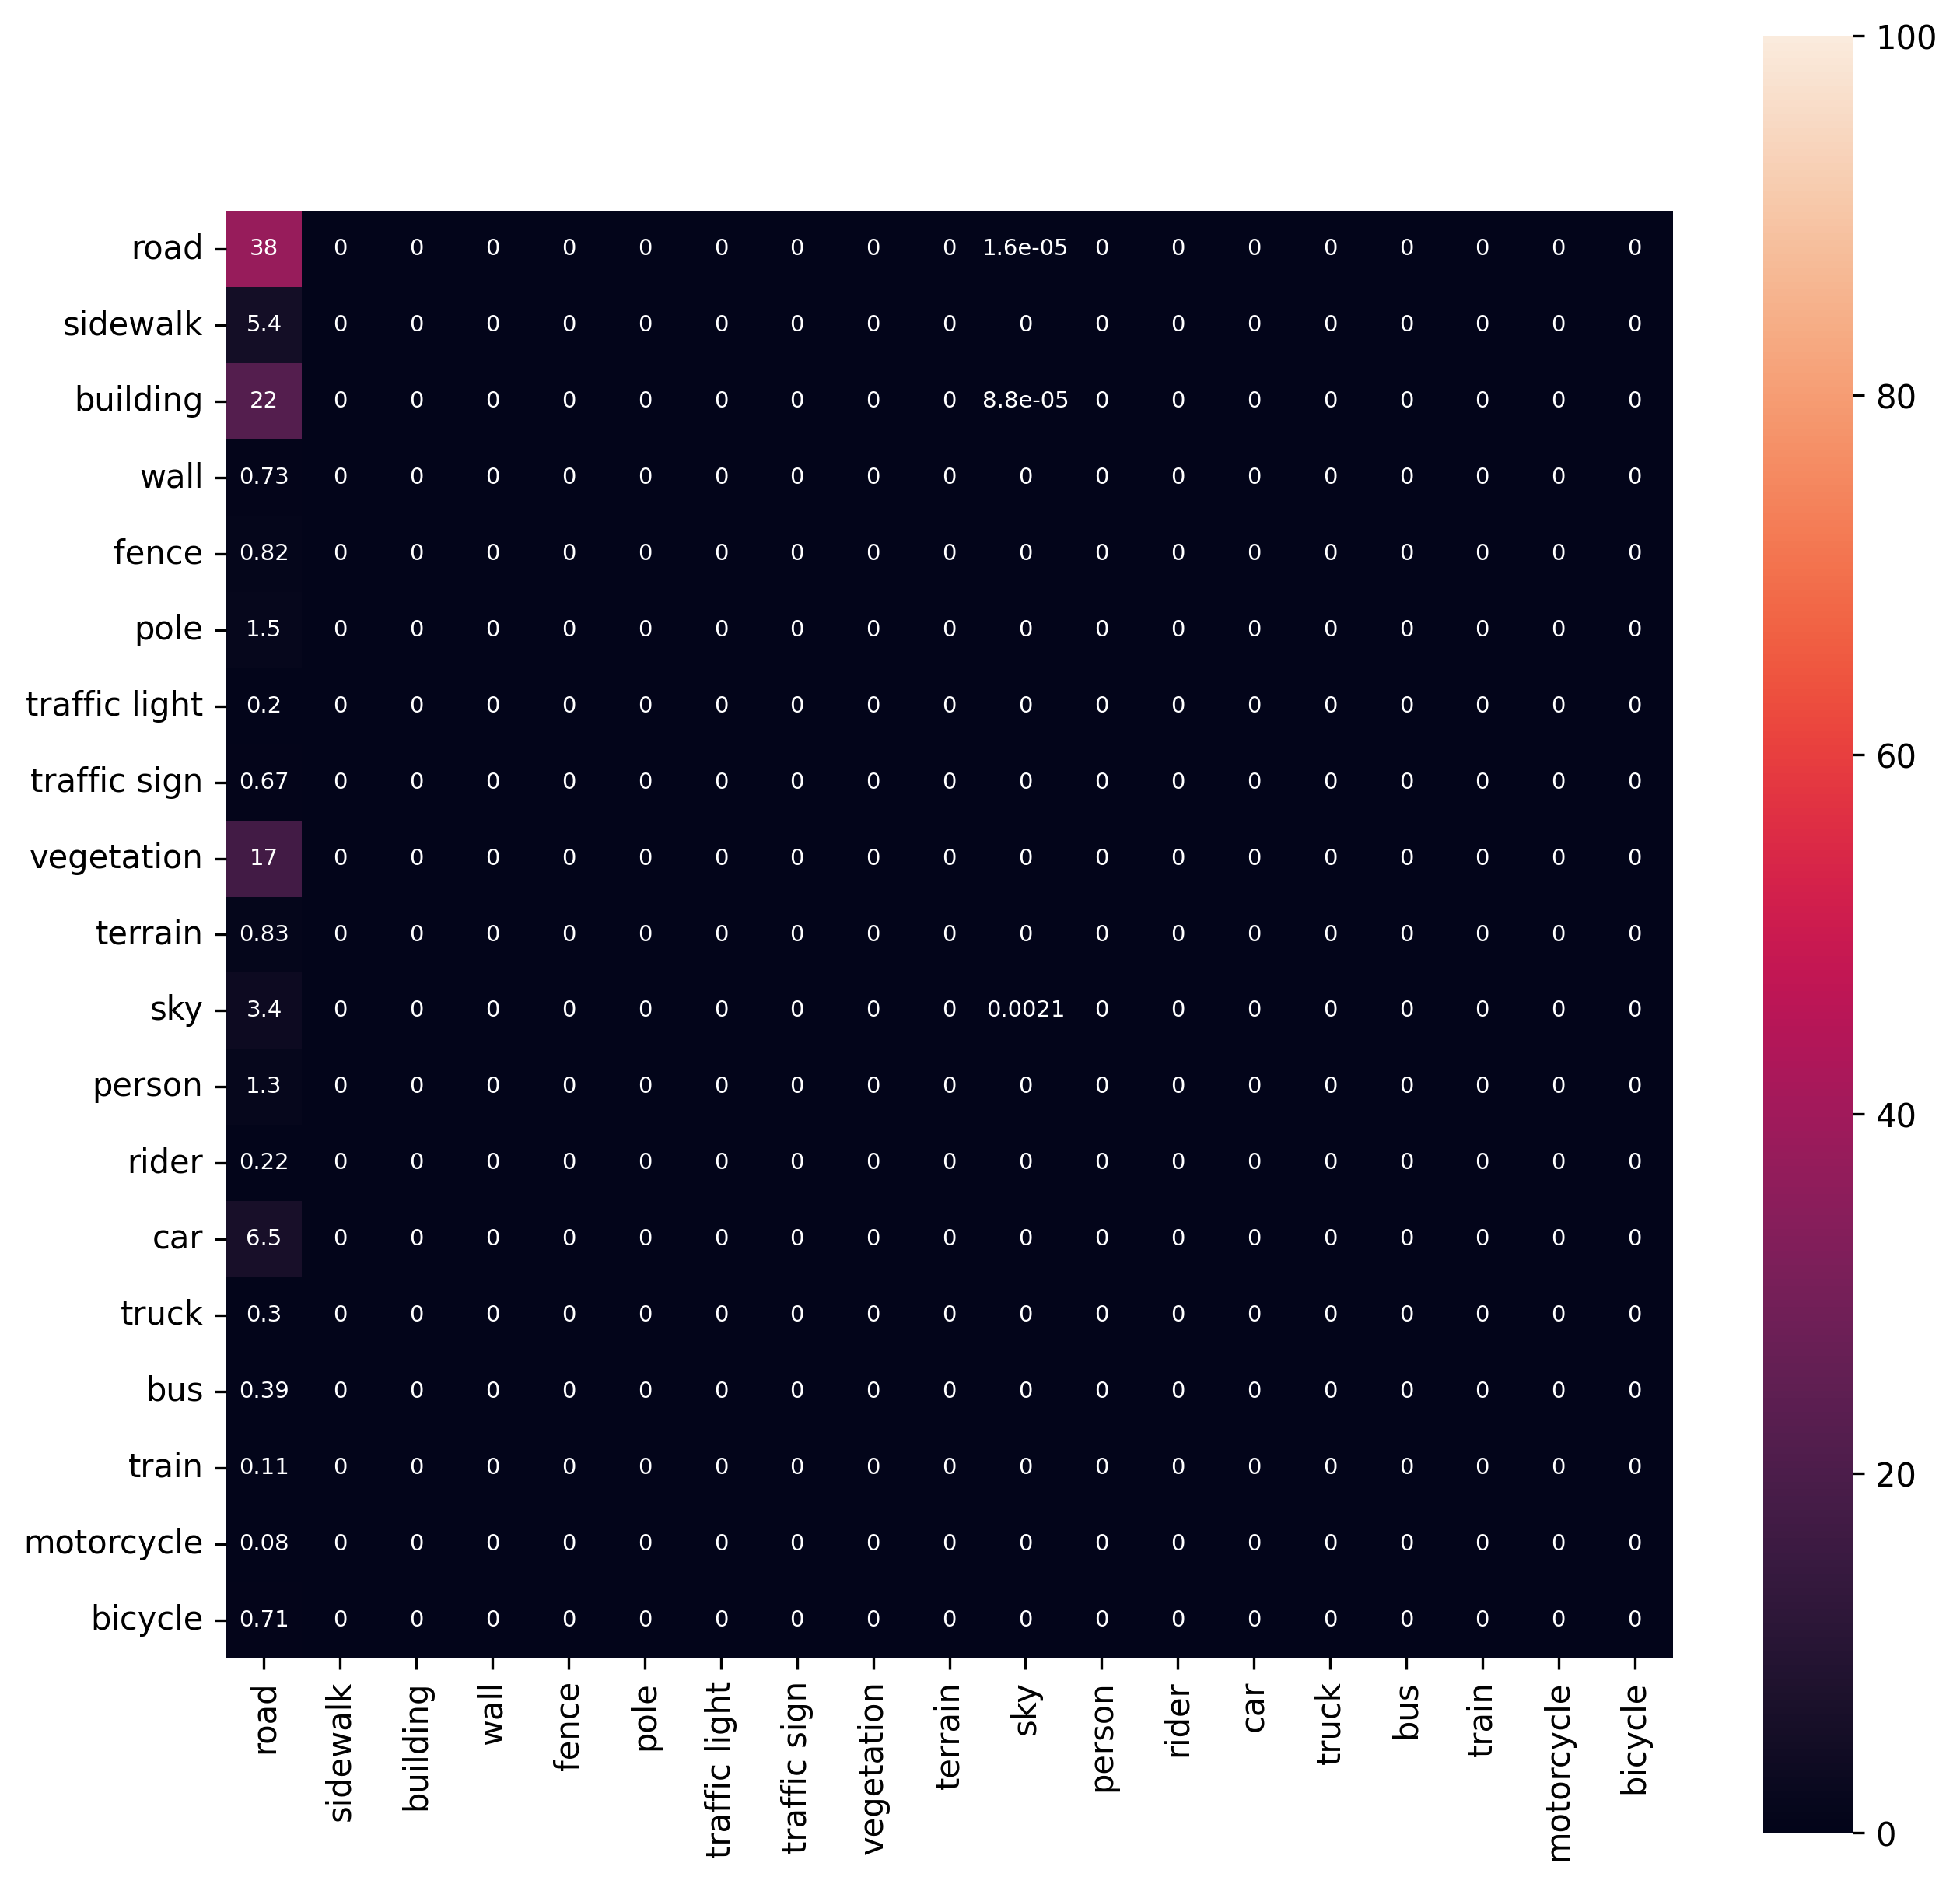
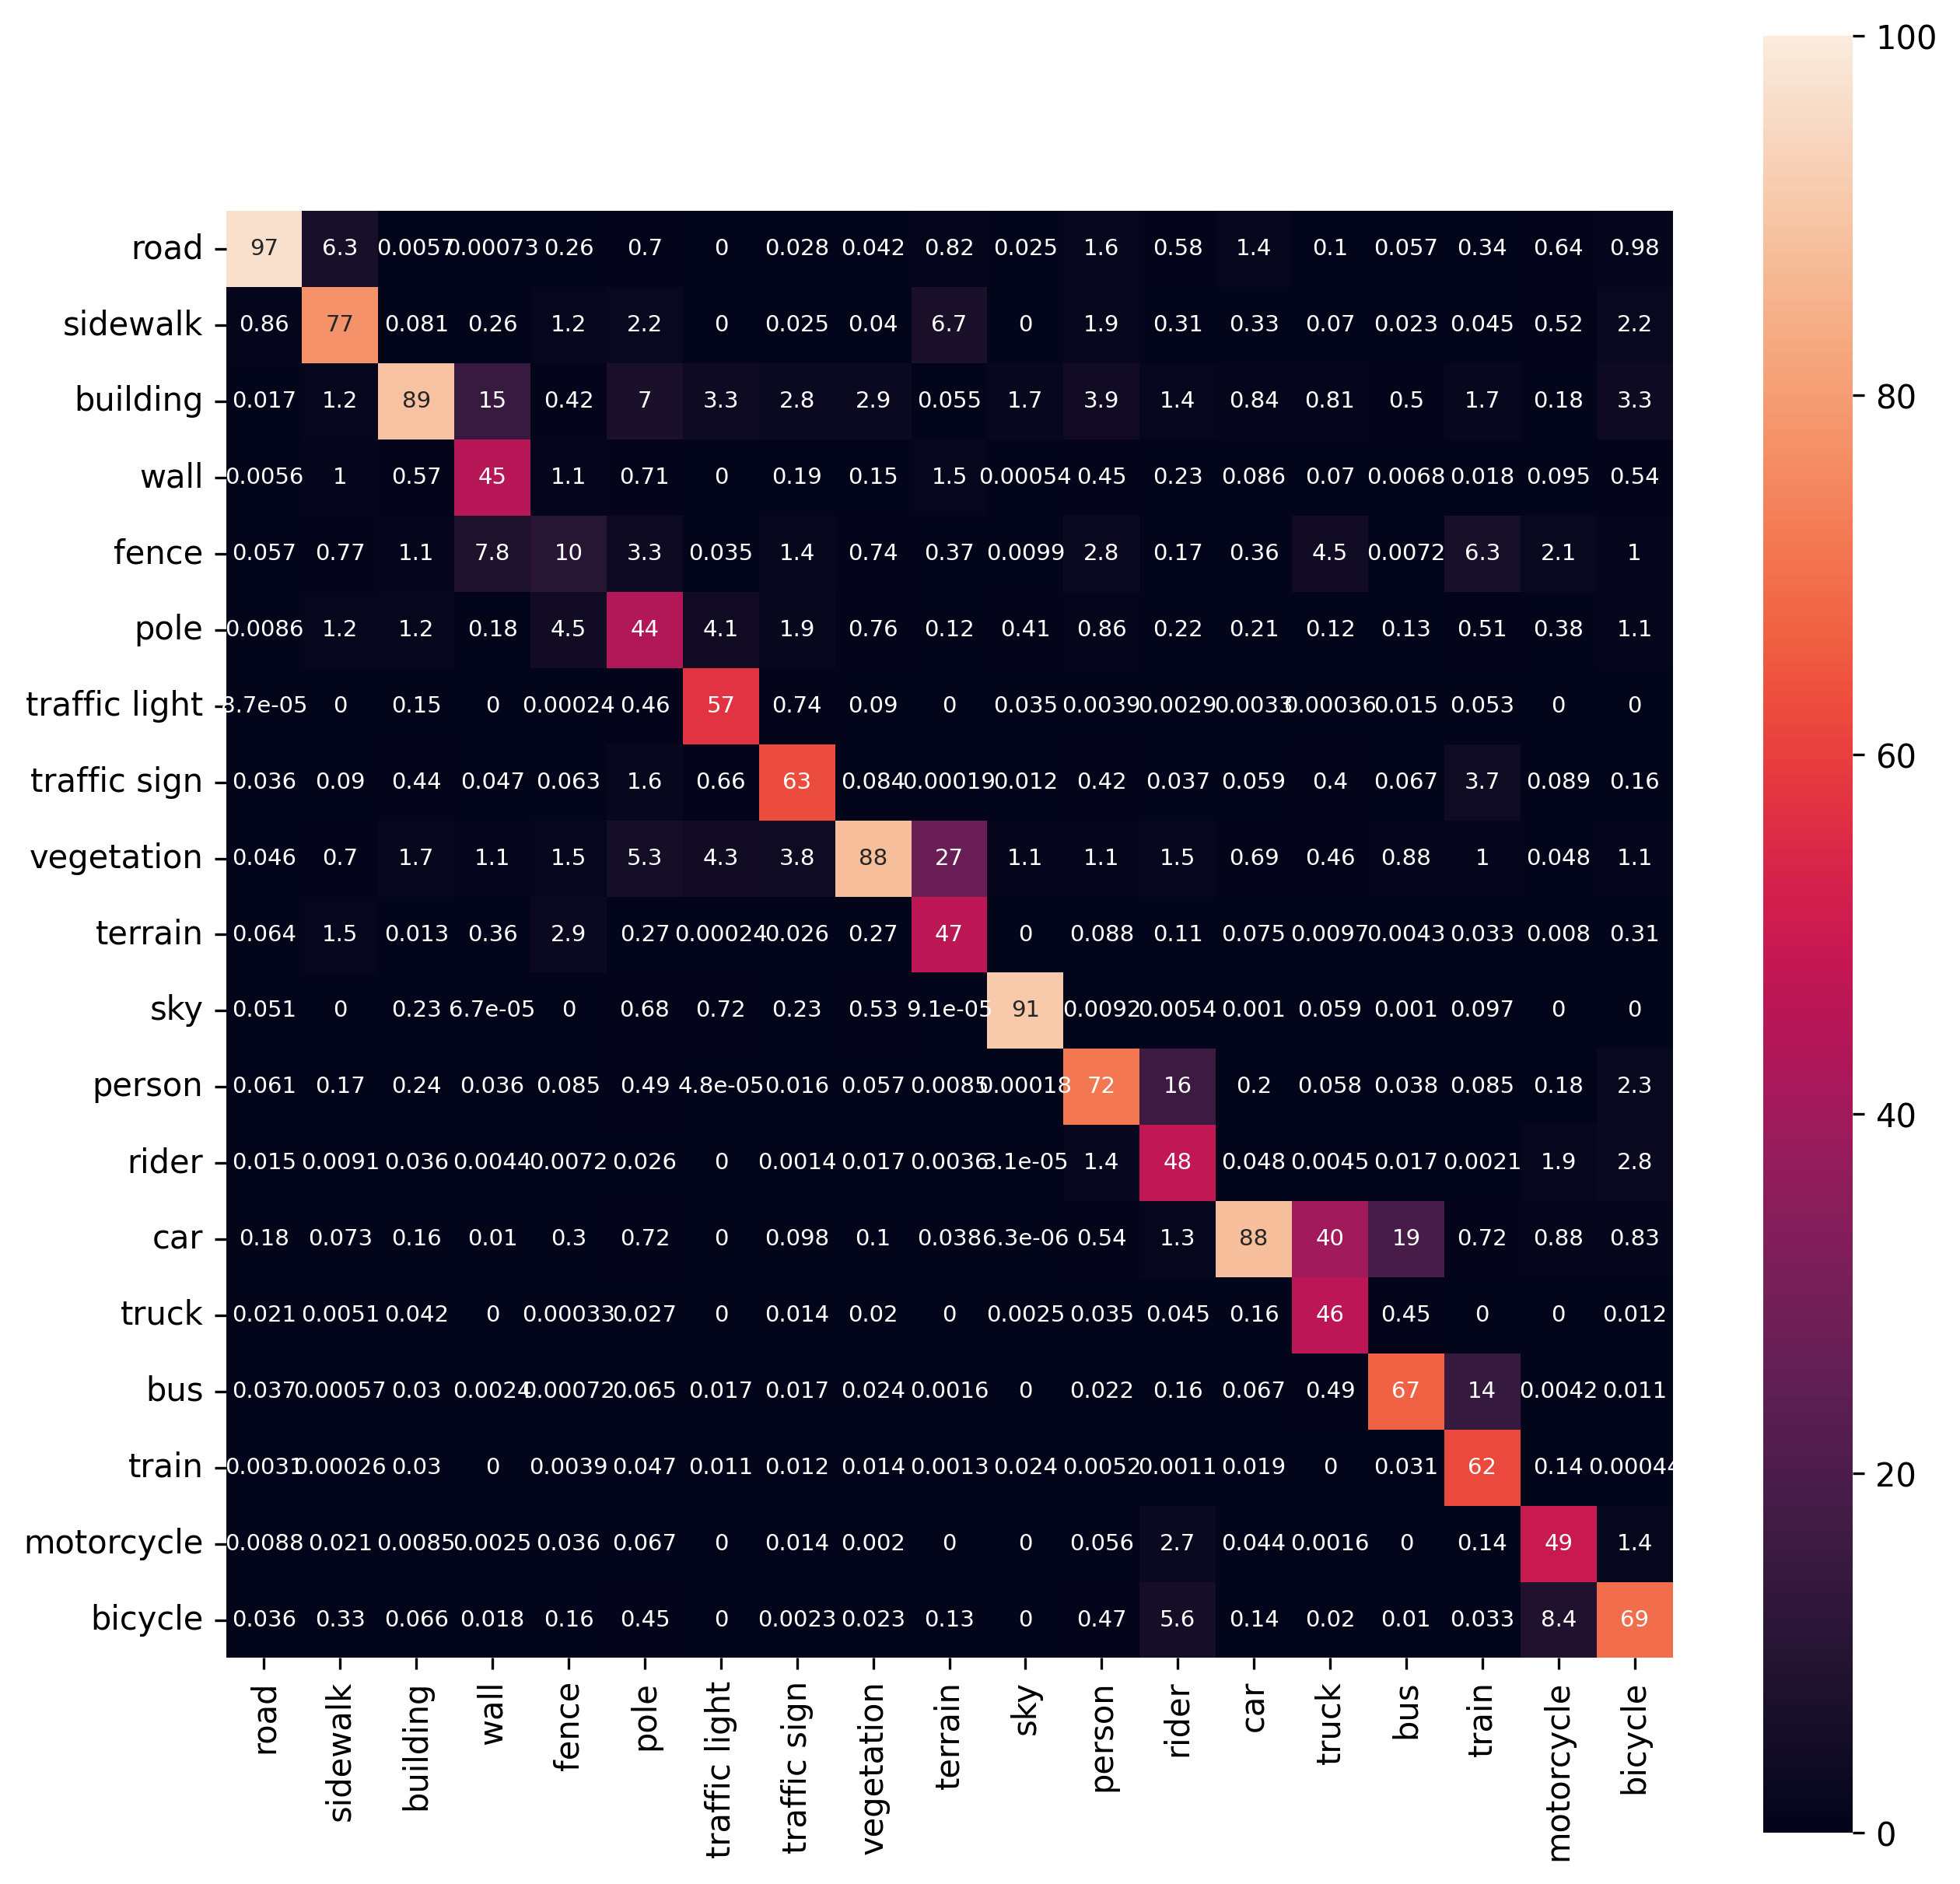
LoRA fixed and results

diff --git a/panoptic_label_generator/fine_tuning.py b/panoptic_label_generator/fine_tuning.py
@@ -93,14 +93,16 @@ class FineTuner(pl.LightningModule):
         return x
 
 
-def apply_lora(model, lora_store: nn.ModuleDict, rank=4, alpha=32):
+def apply_lora(model, lora_store: nn.ModuleDict, rank=4, alpha=16, skip_blocks=[0, 1, 2]):
     for name, module in model.named_modules():
+        if any(f"blocks.{i}." in name for i in skip_blocks):
+            continue  # skip LoRA for early blocks
         if name.endswith('attn.qkv') and isinstance(module, nn.Linear):
             # name = "blocks.3.attn.qkv"
             parent_name = '.'.join(name.split('.')[:-1]) # parent_name = "blocks.3.attn"
             parent = dict(model.named_modules())[parent_name]
 
-            lora_qkv = lora.Linear(
+            lora_module = lora.Linear(
                 in_features=module.in_features,
                 out_features=module.out_features,
                 r=rank,
@@ -109,10 +111,10 @@ def apply_lora(model, lora_store: nn.ModuleDict, rank=4, alpha=32):
                 bias=module.bias is not None
             )
 
-            lora_qkv.weight.data = module.weight.data.clone()
+            lora_module.weight.data = module.weight.data.clone()
             if module.bias is not None:
-                lora_qkv.bias.data = module.bias.data.clone()
+                lora_module.bias.data = module.bias.data.clone()
 
             unique_name = name.replace('.', '_')
-            lora_store[unique_name] = lora_qkv
-            setattr(parent, 'qkv', lora_store[unique_name])
+            lora_store[unique_name] = lora_module
+            setattr(parent, name.split(".")[-1], lora_store[unique_name])

diff --git a/panoptic_label_generator/semantic_fine_tuning.py b/panoptic_label_generator/semantic_fine_tuning.py
@@ -117,14 +117,6 @@ class SemanticFineTuner(FineTuner):
                 .permute(0, 3, 1, 2)  # (B, num_classes, H, W)
         else:
             x = self.head(x)  # (B, num_classes, H, W)
-            with torch.no_grad():
-                probs = F.softmax(x, dim=1)  # (B, num_classes, H, W)
-                preds = probs.argmax(dim=1)  # (B, H, W)
-
-                print("Logit stats:")
-                print("  Logits mean per class:", x.mean(dim=(0, 2, 3)).cpu().numpy())
-                print("  Logits max per class:", x.max(dim=3)[0].max(dim=2)[0].mean(dim=0).cpu().numpy())
-                print("  Unique predicted classes:", torch.unique(preds))
         x = nn.functional.interpolate(x, size=self.train_output_size, mode='bilinear',
                                       align_corners=False)
         return x